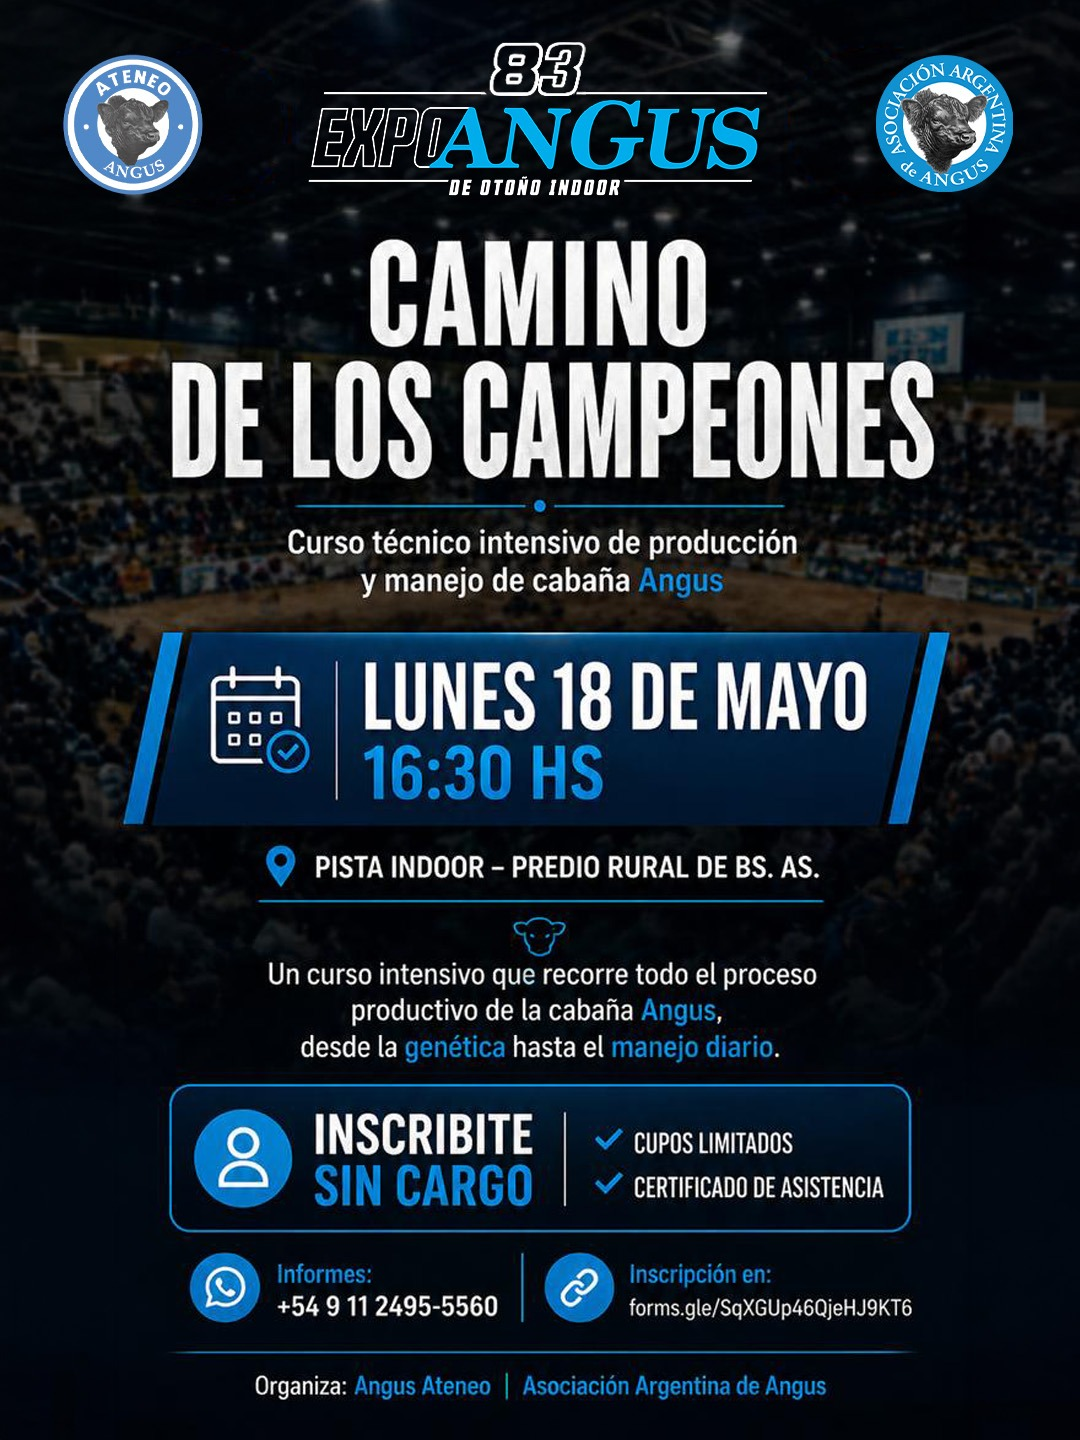
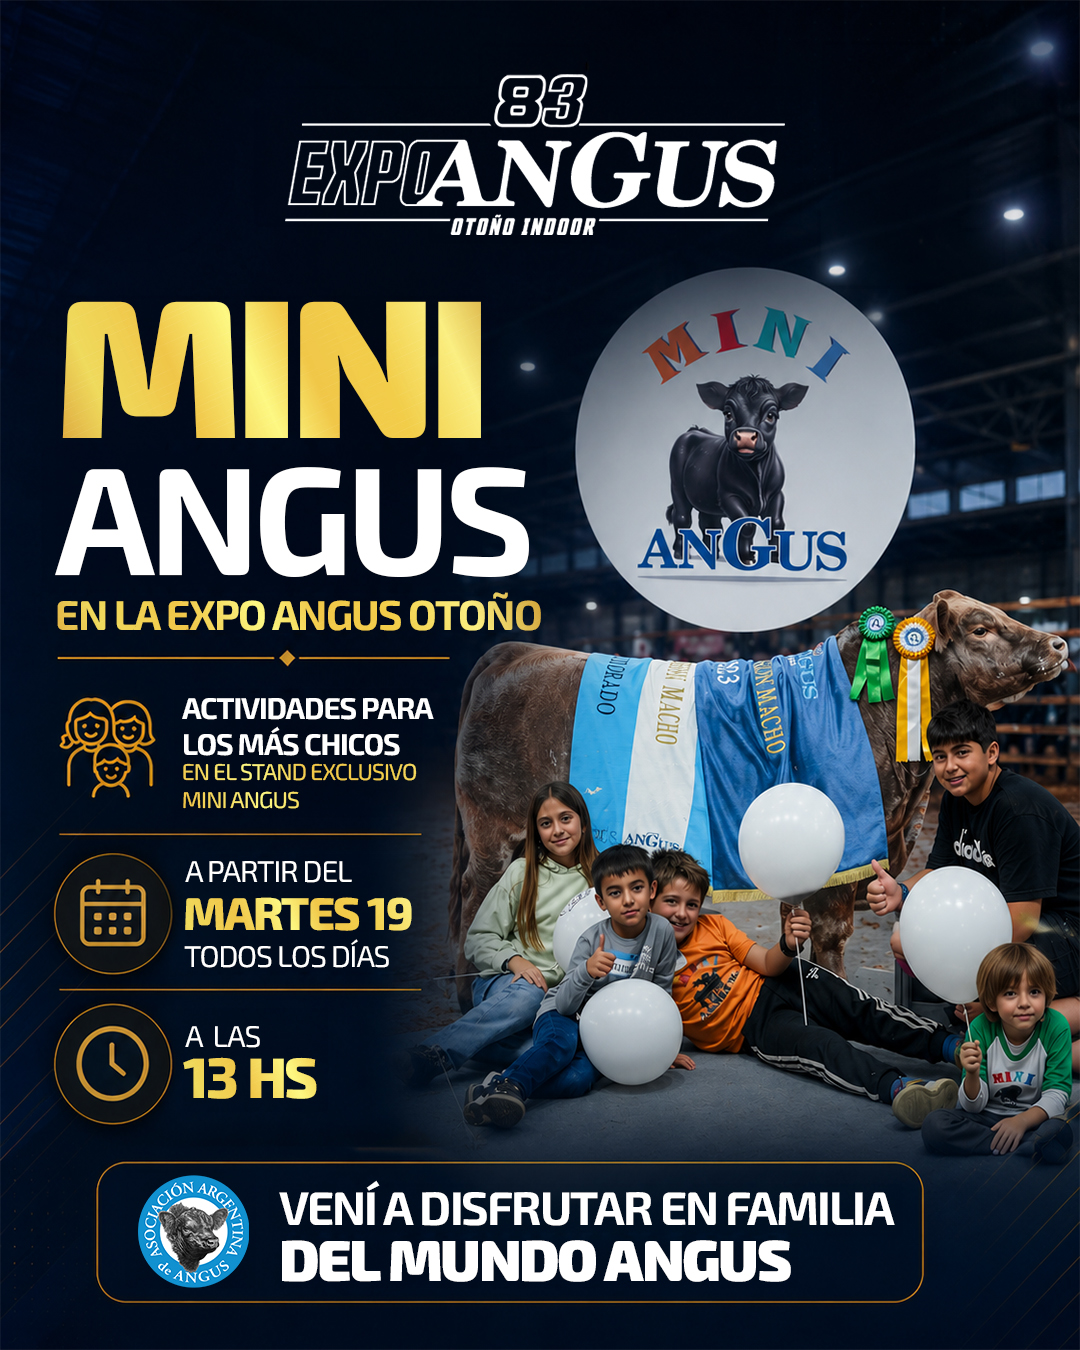
fix

diff --git a/style.css b/style.css
@@ -78,33 +78,100 @@ h1 {
 
 /* ── Header / Nav ── */
 .site-header {
-  width: 90%;
+  width: 100%;
   max-width: 100%;
-  padding: 12px 20px;
+  padding: 0 0 16px;
   display: flex;
   flex-direction: column;
-  gap: 8px;
-  align-items: flex-start;
+  gap: 12px;
+  align-items: center;
+  background: linear-gradient(160deg, #0a0a1a 0%, #0d1b3e 60%, #1a0a00 100%);
+  box-shadow: 0 4px 24px rgba(0,0,0,0.4);
+  box-sizing: border-box;
+}
+
+/* ── Título principal ── */
+.site-title {
+  display: flex;
+  align-items: center;
+  gap: 16px;
+  padding: 28px 32px 20px;
+  position: relative;
+}
+
+.site-title::after {
+  content: "";
+  position: absolute;
+  bottom: 0;
+  left: 50%;
+  transform: translateX(-50%);
+  width: 60%;
+  height: 2px;
+  background: linear-gradient(90deg, transparent, #c9a84c, transparent);
+}
+
+.site-title__number {
+  font-family: 'Bebas Neue', 'Arial Black', sans-serif;
+  font-size: clamp(4rem, 10vw, 7rem);
+  line-height: 1;
+  color: #c9a84c;
+  text-shadow: 0 0 40px rgba(201,168,76,0.5), 2px 2px 0 rgba(0,0,0,0.6);
+  letter-spacing: -2px;
+}
+
+.site-title__text {
+  display: flex;
+  flex-direction: column;
+  gap: 2px;
+}
+
+.site-title__expo {
+  font-family: 'Bebas Neue', 'Arial Black', sans-serif;
+  font-size: clamp(2rem, 6vw, 4.2rem);
+  line-height: 1;
+  color: #fff;
+  letter-spacing: 3px;
+  text-shadow: 2px 2px 0 rgba(0,0,0,0.5);
+}
+
+.site-title__expo strong {
+  color: #c9a84c;
+  font-weight: inherit;
+}
+
+.site-title__sub {
+  font-family: 'Montserrat', sans-serif;
+  font-size: clamp(0.7rem, 2vw, 1rem);
+  font-weight: 700;
+  letter-spacing: 6px;
+  color: rgba(255,255,255,0.6);
+  text-transform: uppercase;
+  padding-left: 2px;
 }
 
 .categories-nav {
   display: flex;
   flex-wrap: wrap;
   gap: 8px;
+  padding: 0 16px;
+  justify-content: center;
 }
 
 .categories-nav a {
   text-decoration: none;
-  padding: 6px 10px;
+  padding: 6px 14px;
   border-radius: 999px;
-  background: #fff;
-  border: 1px solid #ddd;
-  font-size: 0.9rem;
-  color: #333;
+  background: rgba(255,255,255,0.07);
+  border: 1px solid rgba(201,168,76,0.4);
+  font-size: 0.85rem;
+  color: rgba(255,255,255,0.85);
+  transition: background 0.15s, border-color 0.15s;
 }
 
 .categories-nav a:hover {
-  background: #f5f5f5;
+  background: rgba(201,168,76,0.15);
+  border-color: #c9a84c;
+  color: #fff;
 }
 
 /* ── Secciones ── */

diff --git a/index.html b/index.html
@@ -3,12 +3,19 @@
   <head>
     <meta charset="UTF-8" />
     <meta name="viewport" content="width=device-width, initial-scale=1.0" />
-    <title>Rústicos Especial Fin de Año</title>
+    <title>83 EXPOANGUS OTOÑO INDOOR</title>
     <link rel="stylesheet" href="style.css" />
+    <link href="https://fonts.googleapis.com/css2?family=Bebas+Neue&family=Montserrat:wght@400;700&display=swap" rel="stylesheet" />
   </head>
   <body>
-    <!-- NUEVO: navegación por categorías -->
     <header class="site-header">
+      <div class="site-title">
+        <span class="site-title__number">83</span>
+        <div class="site-title__text">
+          <span class="site-title__expo">EXPO<strong>ANGUS</strong></span>
+          <span class="site-title__sub">OTOÑO INDOOR</span>
+        </div>
+      </div>
       <nav id="categories-nav" class="categories-nav"></nav>
     </header>
 
